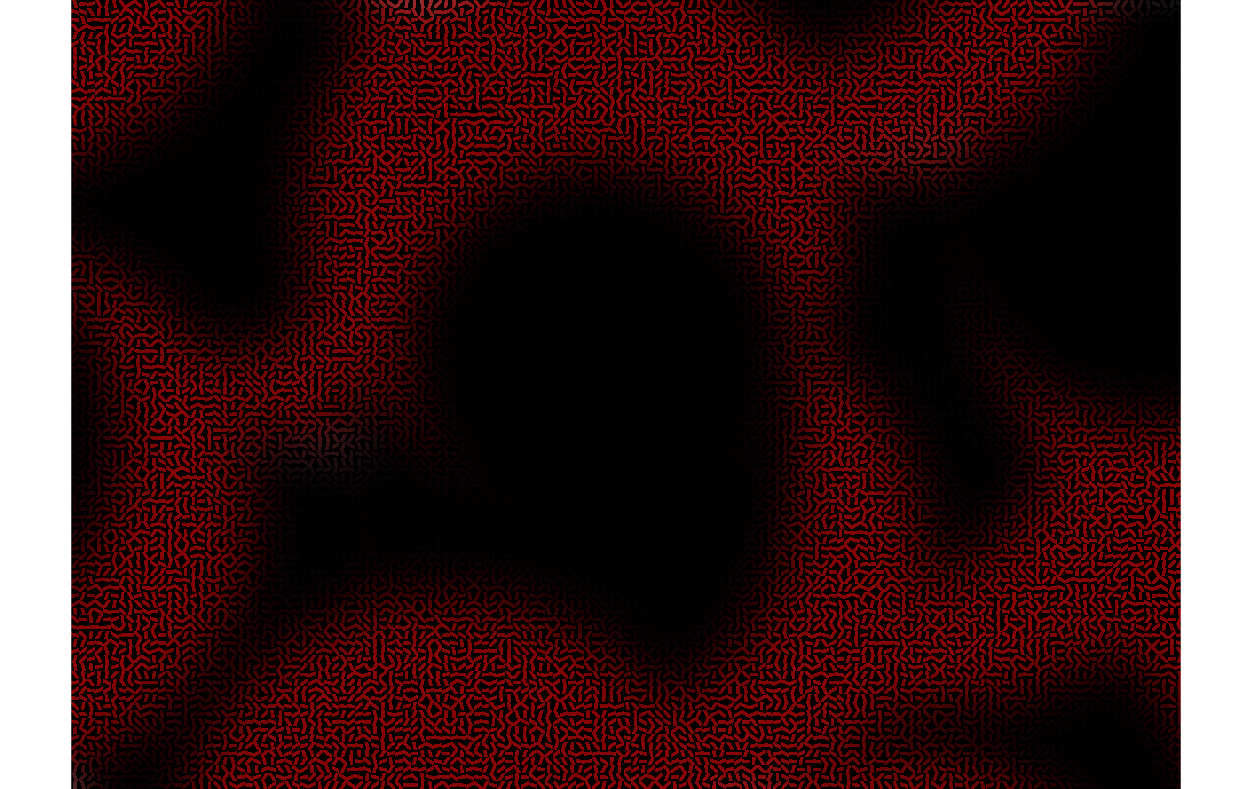
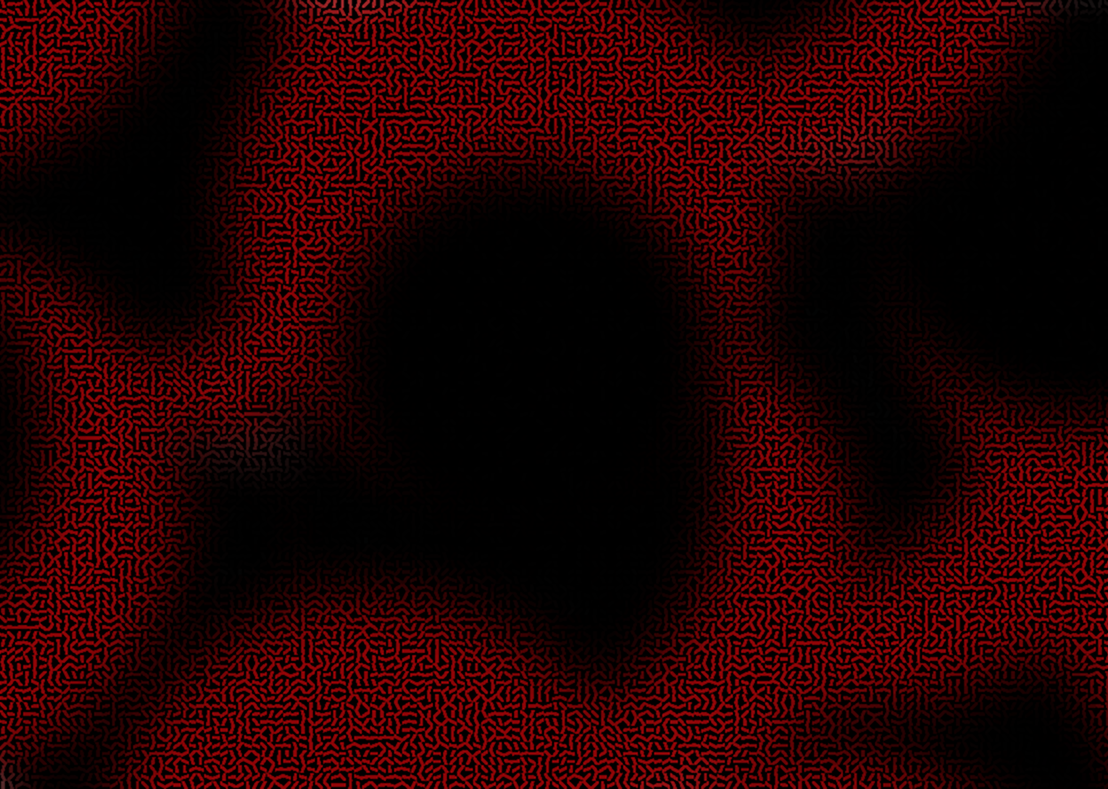
Corregi imagen de fondo

diff --git a/Frontend/Mitla/src/app/presentacion/paginas/autenticacion/login/login.page.scss b/Frontend/Mitla/src/app/presentacion/paginas/autenticacion/login/login.page.scss
@@ -1,0 +1,217 @@
+ion-content {
+  --background: #050000;
+}
+
+.auth-layout {
+  min-height: 100vh;
+  padding: 2rem;
+  display: grid;
+  grid-template-columns: 1fr;
+  gap: 1.5rem;
+  background:
+    linear-gradient(rgba(0, 0, 0, 0.25), rgba(0, 0, 0, 0.45)),
+    url('/assets/2026-06-01T06-19-03.png');
+  background-size: cover;
+  background-position: center;
+  color: #ffffff;
+  font-family: var(--ion-font-family);
+}
+
+.auth-panel {
+  border-radius: 24px;
+  border: 1px solid rgba(255, 255, 255, 0.18);
+  background: rgba(20, 12, 12, 0.78);
+  backdrop-filter: blur(6px);
+  box-shadow: 0 18px 50px rgba(0, 0, 0, 0.45);
+}
+
+.auth-panel-info {
+  display: none;
+}
+
+.auth-panel-formulario {
+  min-height: calc(100vh - 4rem);
+  display: flex;
+  align-items: center;
+  justify-content: center;
+  padding: 2rem;
+}
+
+.auth-formulario {
+  width: 100%;
+  max-width: 470px;
+}
+
+.auth-header {
+  margin-bottom: 2.5rem;
+}
+
+.auth-header h2 {
+  margin: 0;
+  font-size: clamp(3.2rem, 7vw, 5rem);
+  line-height: 0.9;
+  font-weight: 900;
+  letter-spacing: -0.08em;
+  color: #ffffff;
+  text-transform: uppercase;
+}
+
+.auth-header p {
+  margin: 1rem 0 0;
+  font-size: clamp(1.5rem, 3vw, 2.2rem);
+  font-weight: 800;
+  text-transform: uppercase;
+  color: #ffffff;
+}
+
+.auth-campo {
+  margin-bottom: 1.25rem;
+}
+
+.auth-campo ion-label {
+  display: block;
+  margin-bottom: 0.45rem;
+  color: #ffffff;
+  font-weight: 800;
+  text-transform: uppercase;
+  font-size: 0.9rem;
+}
+
+.auth-campo ion-item {
+  --background: rgba(18, 12, 12, 0.72);
+  --border-radius: 8px;
+  --padding-start: 1rem;
+  --inner-padding-end: 1rem;
+  --min-height: 64px;
+  border: 1.5px solid rgba(255, 255, 255, 0.85);
+  border-radius: 8px;
+}
+
+.auth-campo ion-input {
+  --color: #ffffff;
+  --placeholder-color: rgba(255, 255, 255, 0.75);
+  --placeholder-opacity: 1;
+  font-weight: 700;
+}
+
+.auth-boton-principal {
+  margin-top: 1.25rem;
+  height: 58px;
+  --border-radius: 8px;
+  --background: #f4eff8;
+  --background-hover: #ffffff;
+  --color: #20191d;
+  font-size: 1.2rem;
+  font-weight: 900;
+  text-transform: uppercase;
+}
+
+.auth-error {
+  margin-top: 1rem;
+  font-weight: 700;
+}
+
+.auth-separador {
+  margin: 2rem 0 1rem;
+  display: flex;
+  align-items: center;
+  gap: 1rem;
+  color: #ffffff;
+  font-weight: 700;
+  font-size: 0.85rem;
+  text-align: center;
+}
+
+.auth-separador::before,
+.auth-separador::after {
+  content: '';
+  flex: 1;
+  height: 2px;
+  background: rgba(255, 255, 255, 0.65);
+}
+
+.auth-social {
+  display: grid;
+  grid-template-columns: 1fr 1fr;
+  gap: 0.75rem;
+}
+
+.auth-social button {
+  height: 54px;
+  border-radius: 8px;
+  border: 2px solid #ffffff;
+  background: rgba(18, 12, 12, 0.45);
+  cursor: pointer;
+}
+
+.auth-social img {
+  width: 28px;
+  height: 28px;
+  object-fit: contain;
+}
+
+.auth-link {
+  width: 100%;
+  margin-top: 1.5rem;
+  border: none;
+  background: transparent;
+  color: #ffffff;
+  font-weight: 900;
+  text-transform: uppercase;
+  cursor: pointer;
+}
+
+@media (min-width: 900px) {
+  .auth-layout {
+    grid-template-columns: 1fr 1fr;
+  }
+
+  .auth-panel-info {
+    display: flex;
+    flex-direction: column;
+    min-height: calc(100vh - 4rem);
+    padding: 2rem;
+  }
+
+  .auth-frase {
+    margin: 0;
+    max-width: 650px;
+    font-size: clamp(1.6rem, 2.4vw, 2.1rem);
+    line-height: 1.35;
+    font-weight: 700;
+    letter-spacing: 0.04em;
+  }
+
+  .auth-ilustracion {
+    flex: 1;
+    display: flex;
+    align-items: center;
+    justify-content: center;
+  }
+
+  .auth-ilustracion img {
+    width: min(78%, 520px);
+    max-height: 460px;
+    object-fit: contain;
+  }
+
+  .auth-cita {
+    padding: 1.25rem;
+    border-radius: 18px;
+    border: 1px solid rgba(255, 255, 255, 0.16);
+    background: rgba(40, 24, 24, 0.65);
+  }
+
+  .auth-cita p {
+    margin: 0 0 1rem;
+    line-height: 1.55;
+    font-weight: 800;
+    text-transform: uppercase;
+  }
+
+  .auth-cita strong {
+    display: block;
+    text-align: right;
+    text-transform: uppercase;
+  }
+}

diff --git a/Frontend/Mitla/src/app/presentacion/paginas/autenticacion/login/login.page.html b/Frontend/Mitla/src/app/presentacion/paginas/autenticacion/login/login.page.html
@@ -1,60 +1,106 @@
-<ion-header>
-  <ion-toolbar>
-    <ion-title>Mitla</ion-title>
-  </ion-toolbar>
-</ion-header>
+<ion-content fullscreen>
 
-<ion-content class="ion-padding">
+  <main class="auth-layout">
 
-  <ion-card>
-    <ion-card-header>
-      <ion-card-title>Iniciar sesión</ion-card-title>
-    </ion-card-header>
+    <section class="auth-panel auth-panel-info">
 
-    <ion-card-content>
+      <h1 class="auth-frase">
+        Tus notas, tu conocimiento, tus reglas. 100% privado.
+      </h1>
 
-      <ion-item>
-        <ion-label position="stacked">Correo electrónico</ion-label>
-        <ion-input
-          type="email"
-          [(ngModel)]="email"
-          placeholder="correo@ejemplo.com">
-        </ion-input>
-      </ion-item>
+      <div class="auth-ilustracion">
+        <img
+          src="assets/mitla/ilustracion-privacidad.png"
+          alt="Ilustración de privacidad y conocimiento"
+        >
+      </div>
 
-      <ion-item>
-        <ion-label position="stacked">Contraseña</ion-label>
-        <ion-input
-          type="password"
-          [(ngModel)]="password"
-          placeholder="Tu contraseña">
-        </ion-input>
-      </ion-item>
+      <article class="auth-cita">
+        <p>
+          Decir que no te importa el derecho a la privacidad porque no tienes
+          nada que ocultar es como decir que no te importa la libertad de
+          expresión porque no tienes nada que decir.
+        </p>
 
-      <ion-button
-        expand="block"
-        class="ion-margin-top"
-        (click)="iniciarSesion()"
-        [disabled]="cargando">
+        <strong>Edward Snowden</strong>
+      </article>
 
-        {{ cargando ? 'Iniciando sesión...' : 'Entrar' }}
+    </section>
 
-      </ion-button>
+    <section class="auth-panel auth-panel-formulario">
 
-      <ion-text color="danger" *ngIf="error">
-        <p>{{ error }}</p>
-      </ion-text>
+      <div class="auth-formulario">
 
-      <ion-button
-        expand="block"
-        fill="clear"
-        routerLink="/registro">
+        <header class="auth-header">
+          <h2>MITLA</h2>
+          <p>BIENVENIDO DE NUEVO</p>
+        </header>
 
-        Crear cuenta
+        <div class="auth-campo">
+          <ion-label>Usuario</ion-label>
 
-      </ion-button>
+          <ion-item lines="none">
+            <ion-input
+              type="email"
+              [(ngModel)]="email"
+              placeholder="Ingresa tu correo">
+            </ion-input>
+          </ion-item>
+        </div>
 
-    </ion-card-content>
-  </ion-card>
+        <div class="auth-campo">
+          <ion-label>Contraseña</ion-label>
+
+          <ion-item lines="none">
+            <ion-input
+              type="password"
+              [(ngModel)]="password"
+              placeholder="Ingresa tu contraseña">
+            </ion-input>
+          </ion-item>
+        </div>
+
+        <ion-button
+          expand="block"
+          class="auth-boton-principal"
+          (click)="iniciarSesion()"
+          [disabled]="cargando">
+
+          {{ cargando ? 'Iniciando sesión...' : 'Inicia sesión' }}
+
+        </ion-button>
+
+        <ion-text color="danger" *ngIf="error">
+          <p class="auth-error">{{ error }}</p>
+        </ion-text>
+
+        <div class="auth-separador">
+          <span>O inicia sesión con</span>
+        </div>
+
+        <div class="auth-social">
+          <button type="button" aria-label="Iniciar sesión con Google">
+            <img src="assets/mitla/google.svg" alt="">
+          </button>
+
+          <button type="button" aria-label="Iniciar sesión con GitHub">
+            <img src="assets/mitla/github.svg" alt="">
+          </button>
+        </div>
+
+        <button
+          type="button"
+          class="auth-link"
+          routerLink="/registro">
+
+          ¿No tienes cuenta? Crea una nueva
+
+        </button>
+
+      </div>
+
+    </section>
+
+  </main>
 
 </ion-content>
